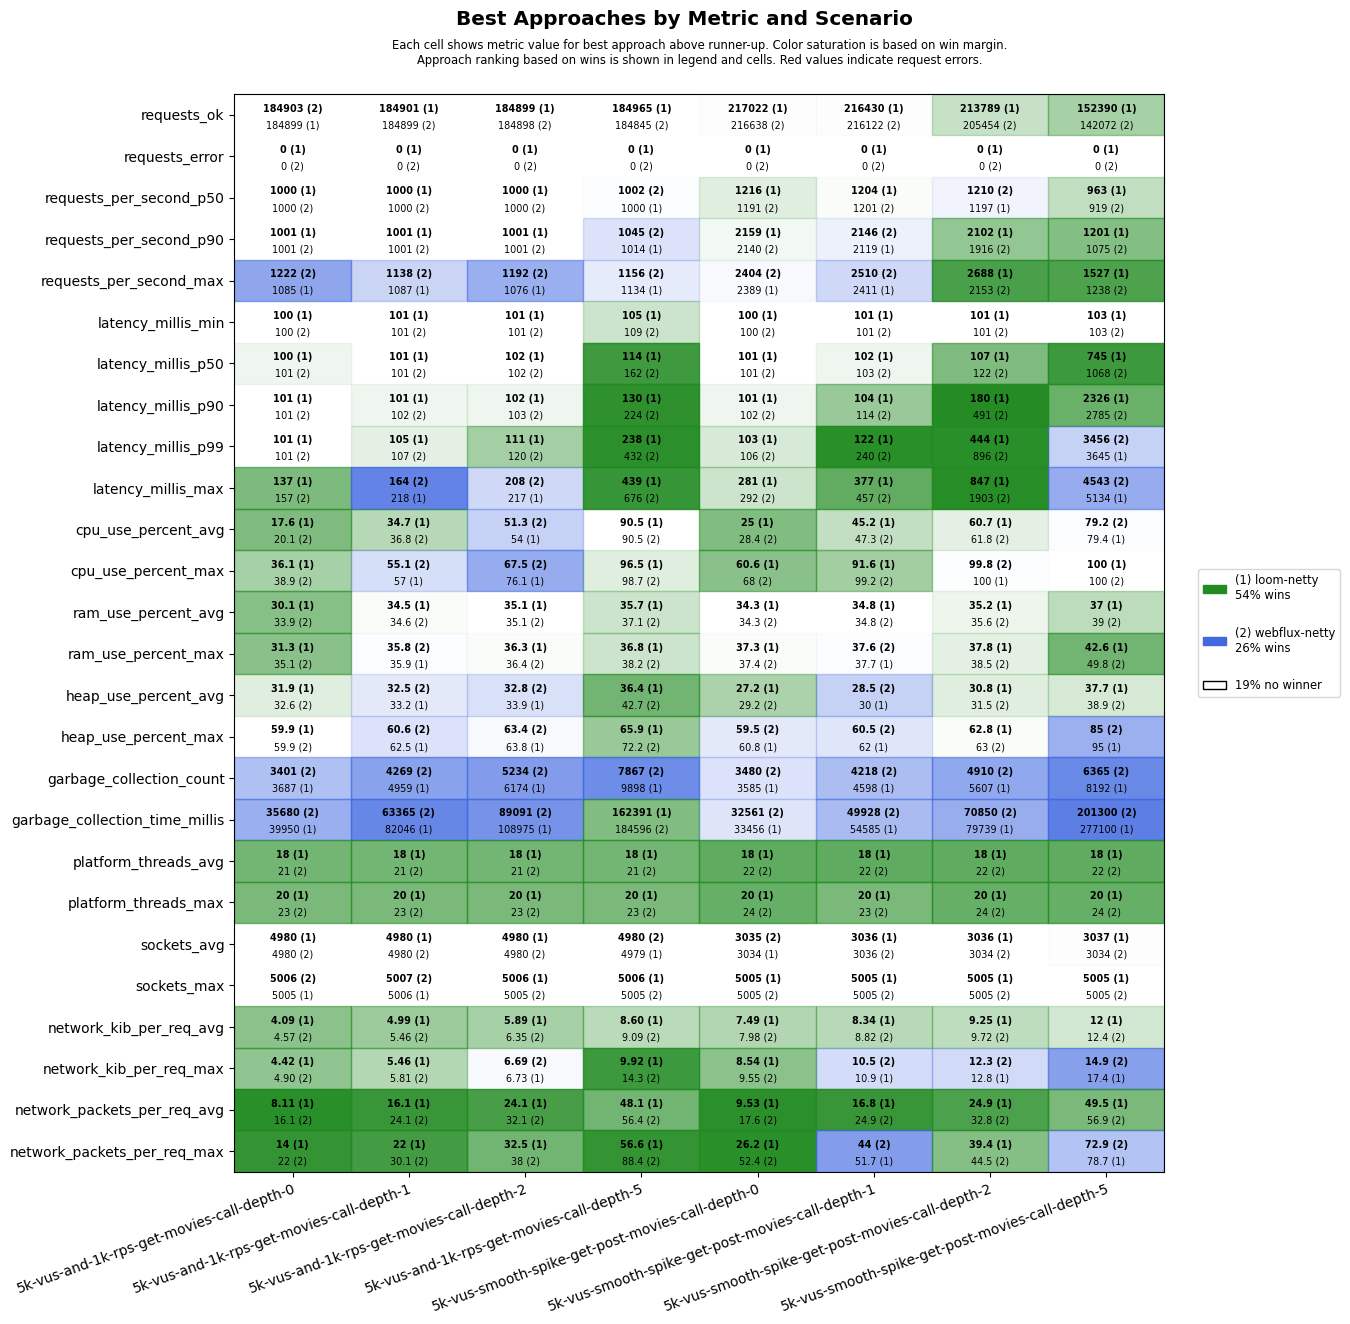
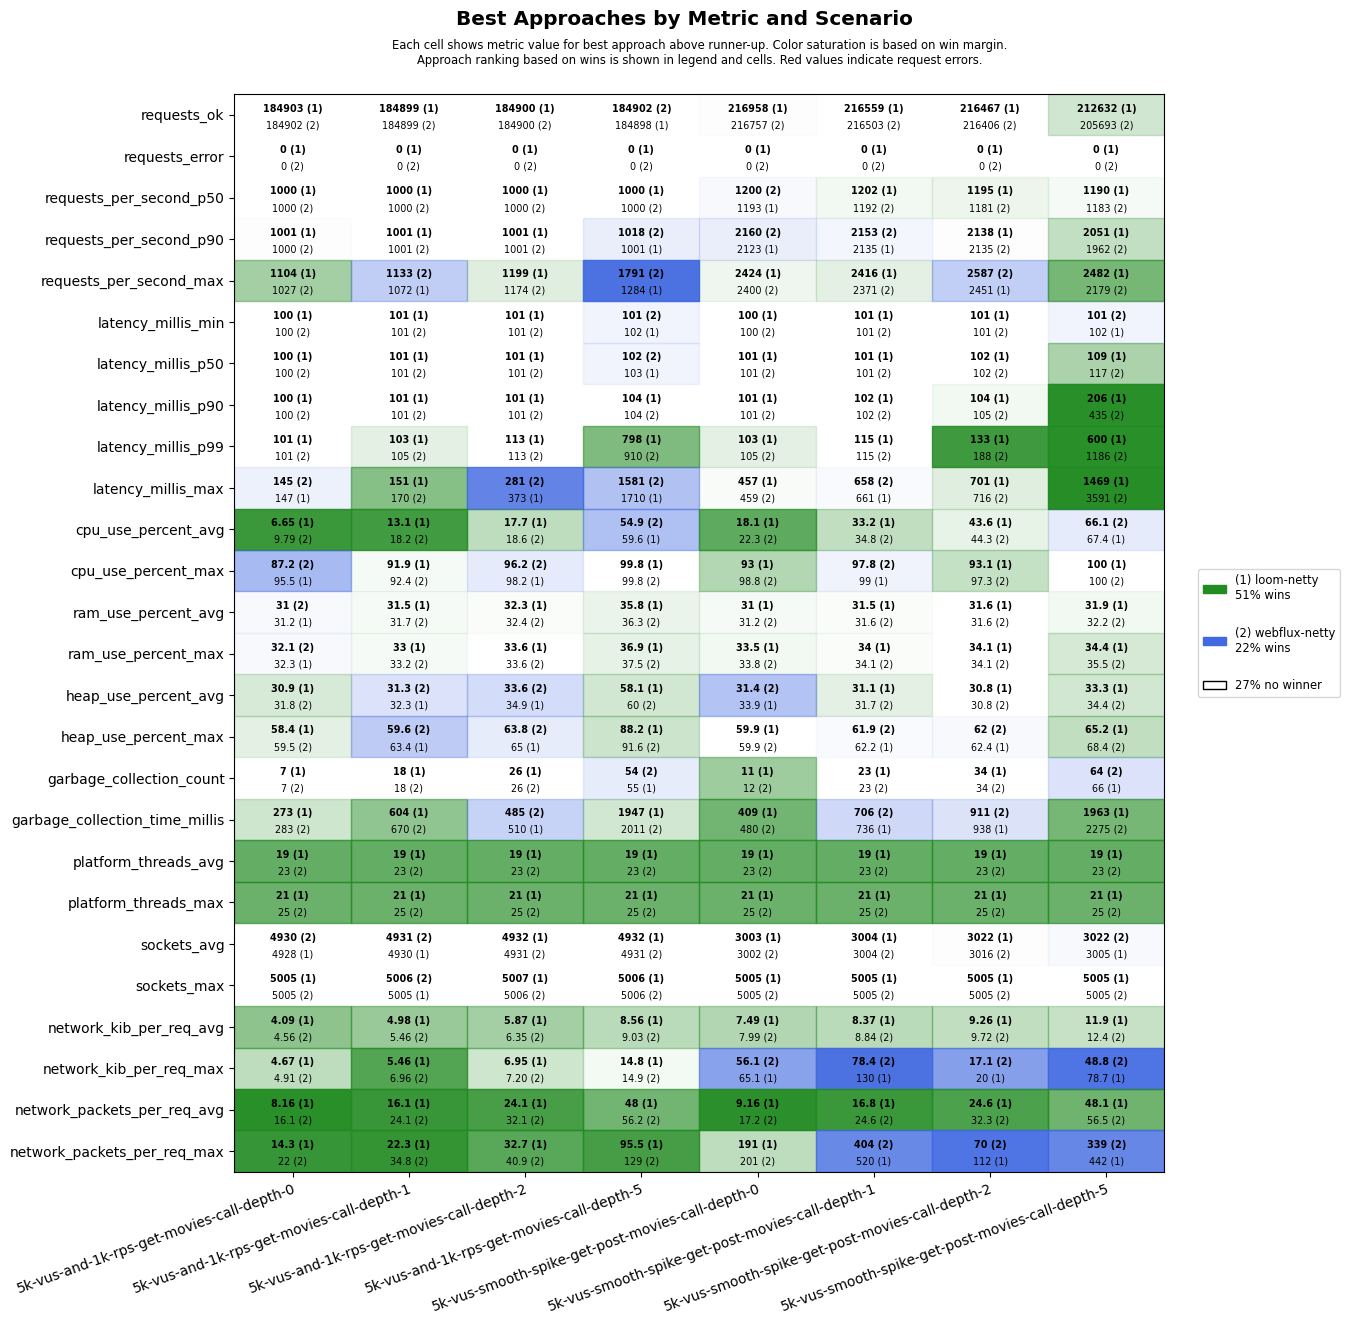
Apply automatic changes

diff --git a/results/ci/scenarios-deep-call-stack/Ubuntu-22.04/java-25/results.md b/results/ci/scenarios-deep-call-stack/Ubuntu-22.04/java-25/results.md
@@ -4,23 +4,23 @@
 
 | **Name**                | **Value** |
 |-------------------------|-----------|
-| **Start (UTC)** | 2026-06-02 18:22:05 |
-| **End (UTC)** | 2026-06-02 19:15:57 |
-| **Duration (hh:mm:ss)** | 00:53:52 |
+| **Start (UTC)** | 2026-07-02 17:39:46 |
+| **End (UTC)** | 2026-07-02 18:48:06 |
+| **Duration (hh:mm:ss)** | 01:08:20 |
 
 ## System Specs
 
 | **Name**                | **Value** |
 |-------------------------|-----------|
 | **Java** | OpenJDK 64-Bit Server VM Corretto-25.0.3.9.1 (build 25.0.3+9-LTS, mixed mode, sharing) |
-| **Spring Boot** | 3.5.14 |
+| **Spring Boot** | 4.1.0 |
 | **Python** | 3.10.12 |
 | **OS** | Ubuntu 22.04.5 LTS |
-| **Kernel** | 6.8.0-1052-azure |
-| **CPU** | AMD EPYC 9V74 80-Core Processor |
+| **Kernel** | 6.8.0-1059-azure |
+| **CPU** | AMD EPYC 7763 64-Core Processor |
 | **CPU Cores** | 4 |
 | **RAM** | 15Gi total, 12Gi available |
-| **Disk** | 158G total, 99G available |
+| **Disk** | 158G total, 98G available |
 
 ## Scenarios
 